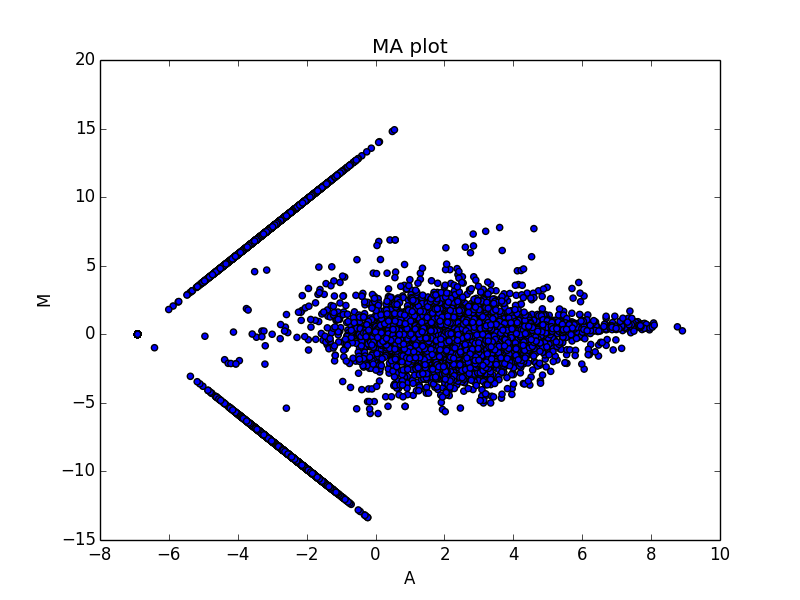
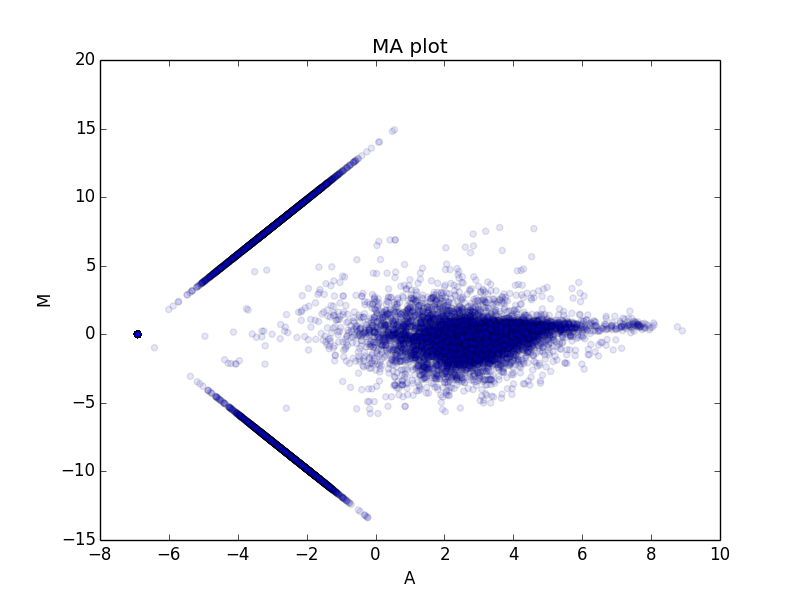
trans

diff --git a/day4-lunch/scatter.py b/day4-lunch/scatter.py
@@ -46,7 +46,7 @@ xy = np.log(xy + epsilon)
 madf = pd.DataFrame(xy)
 plt.figure()
 
-plt.scatter(madf.mean(axis=0), xy[1] - xy[0])
+plt.scatter(madf.mean(axis=0), xy[1] - xy[0], alpha = 0.1)
 plt.title("MA plot")
 plt.xlabel("A")
 plt.ylabel("M")
